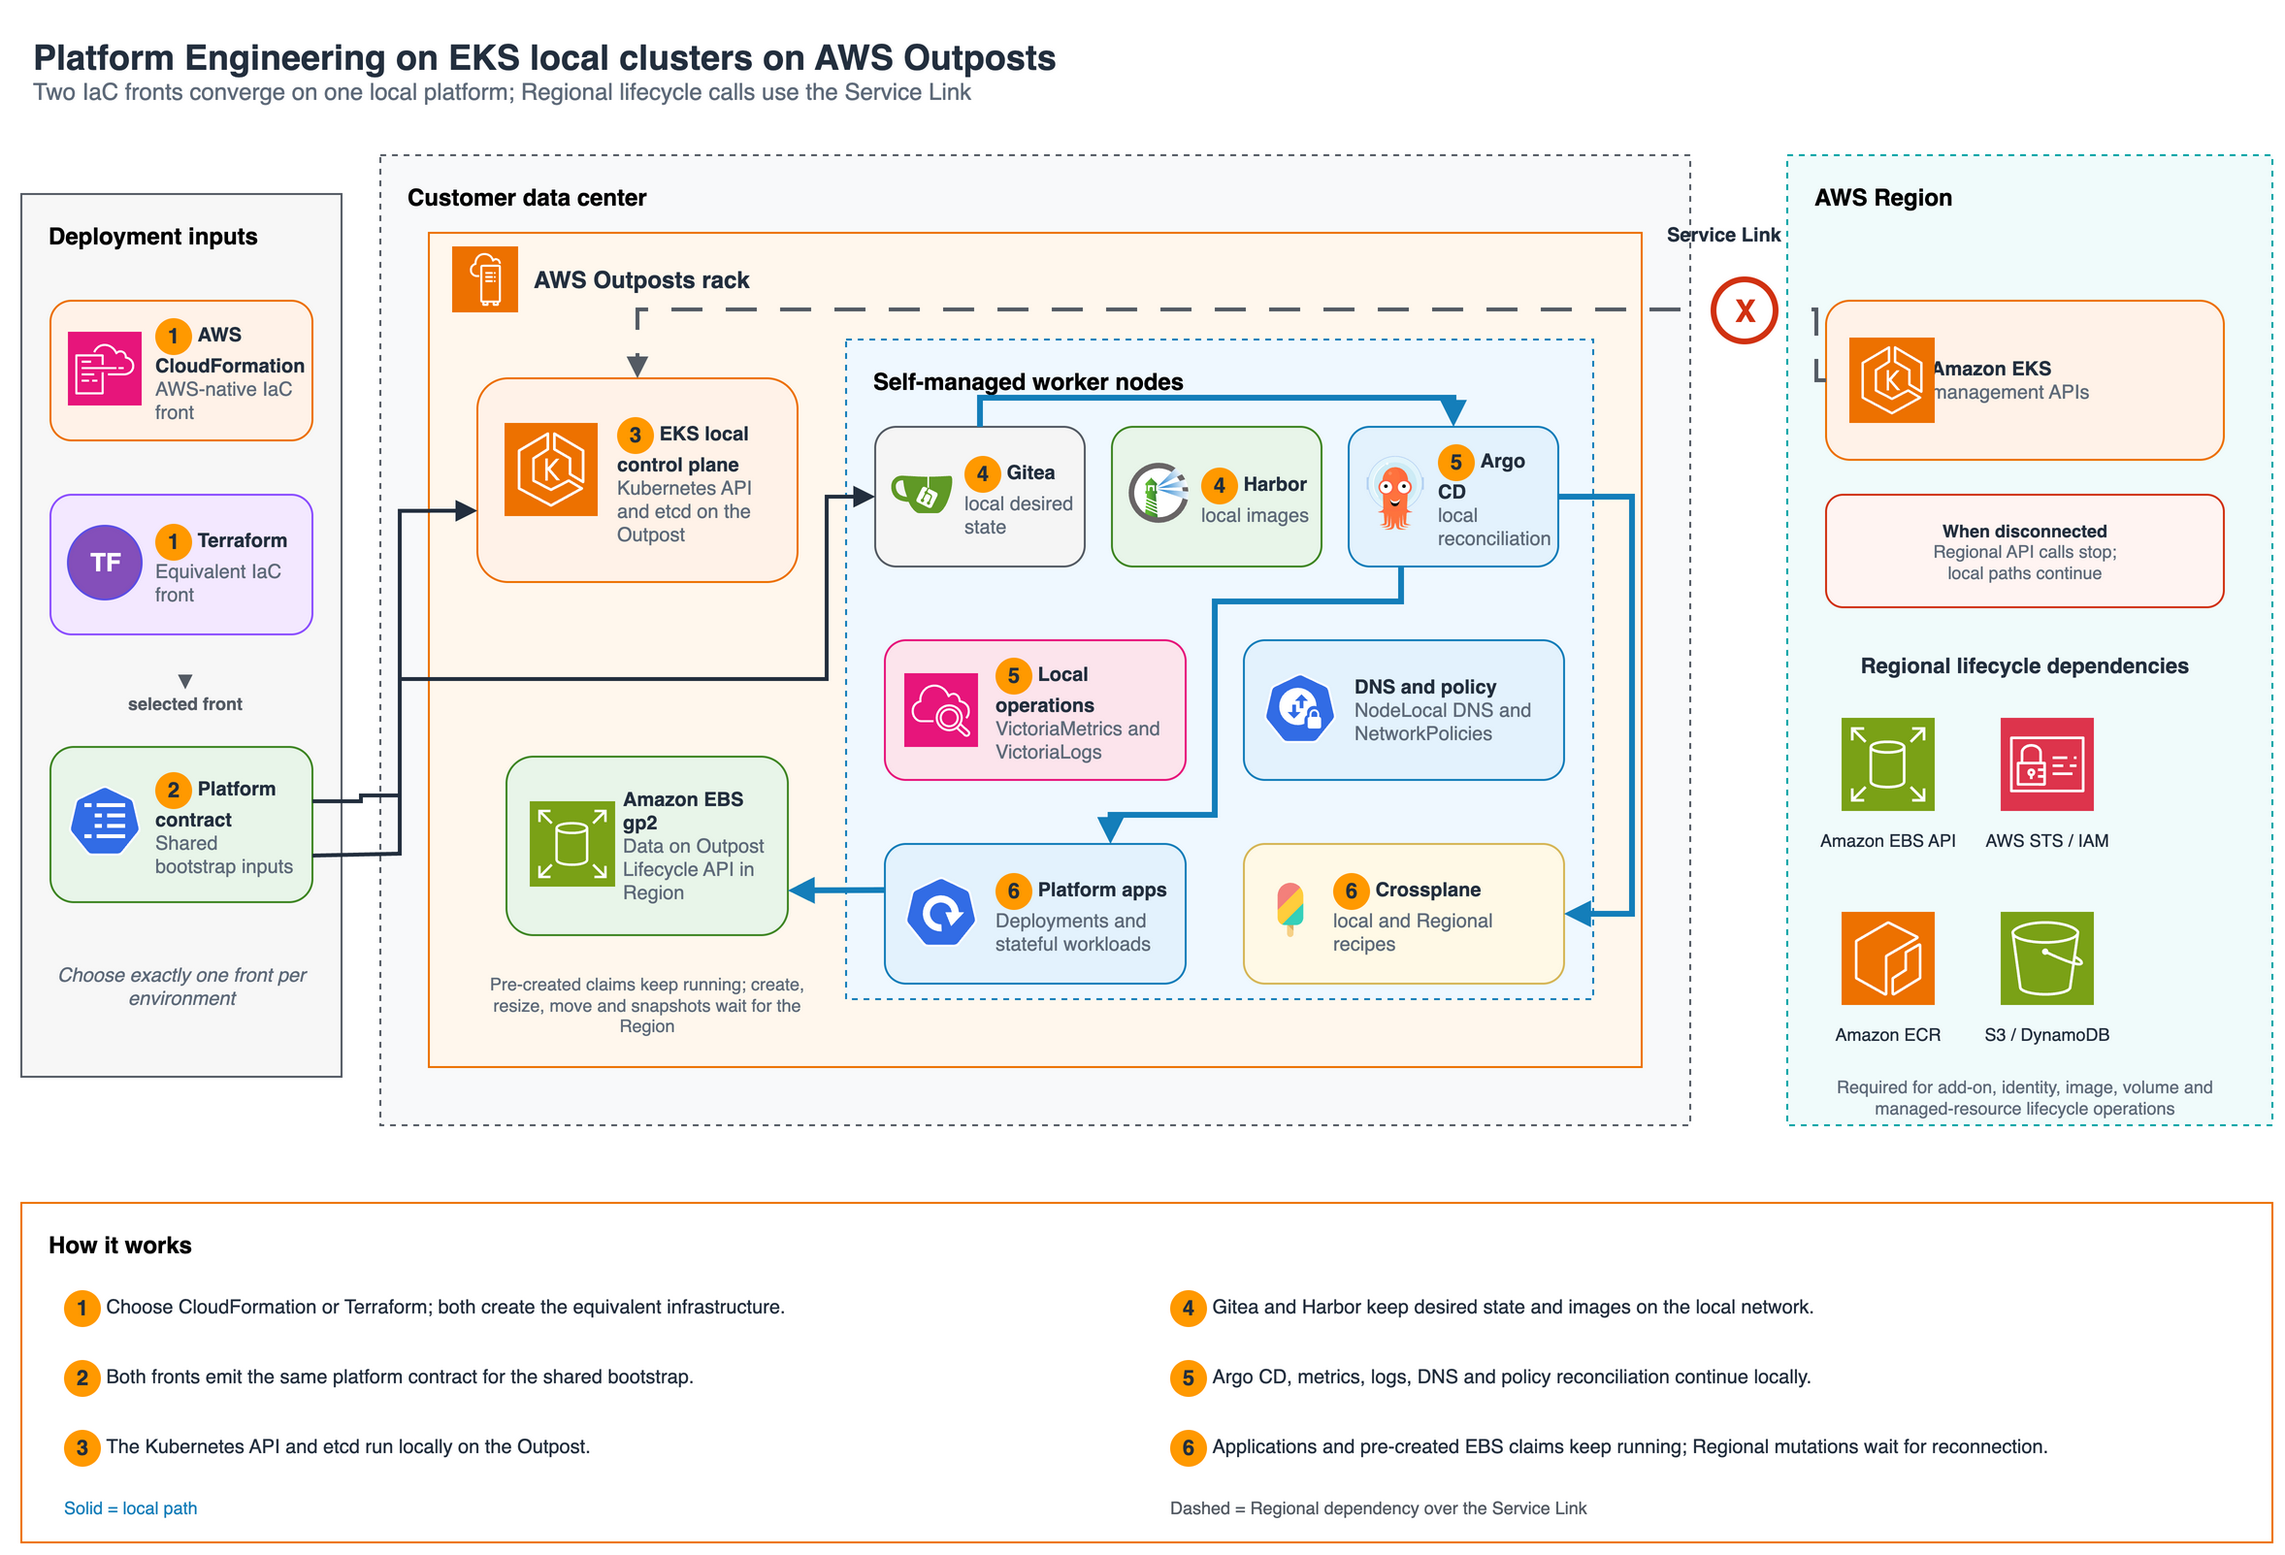
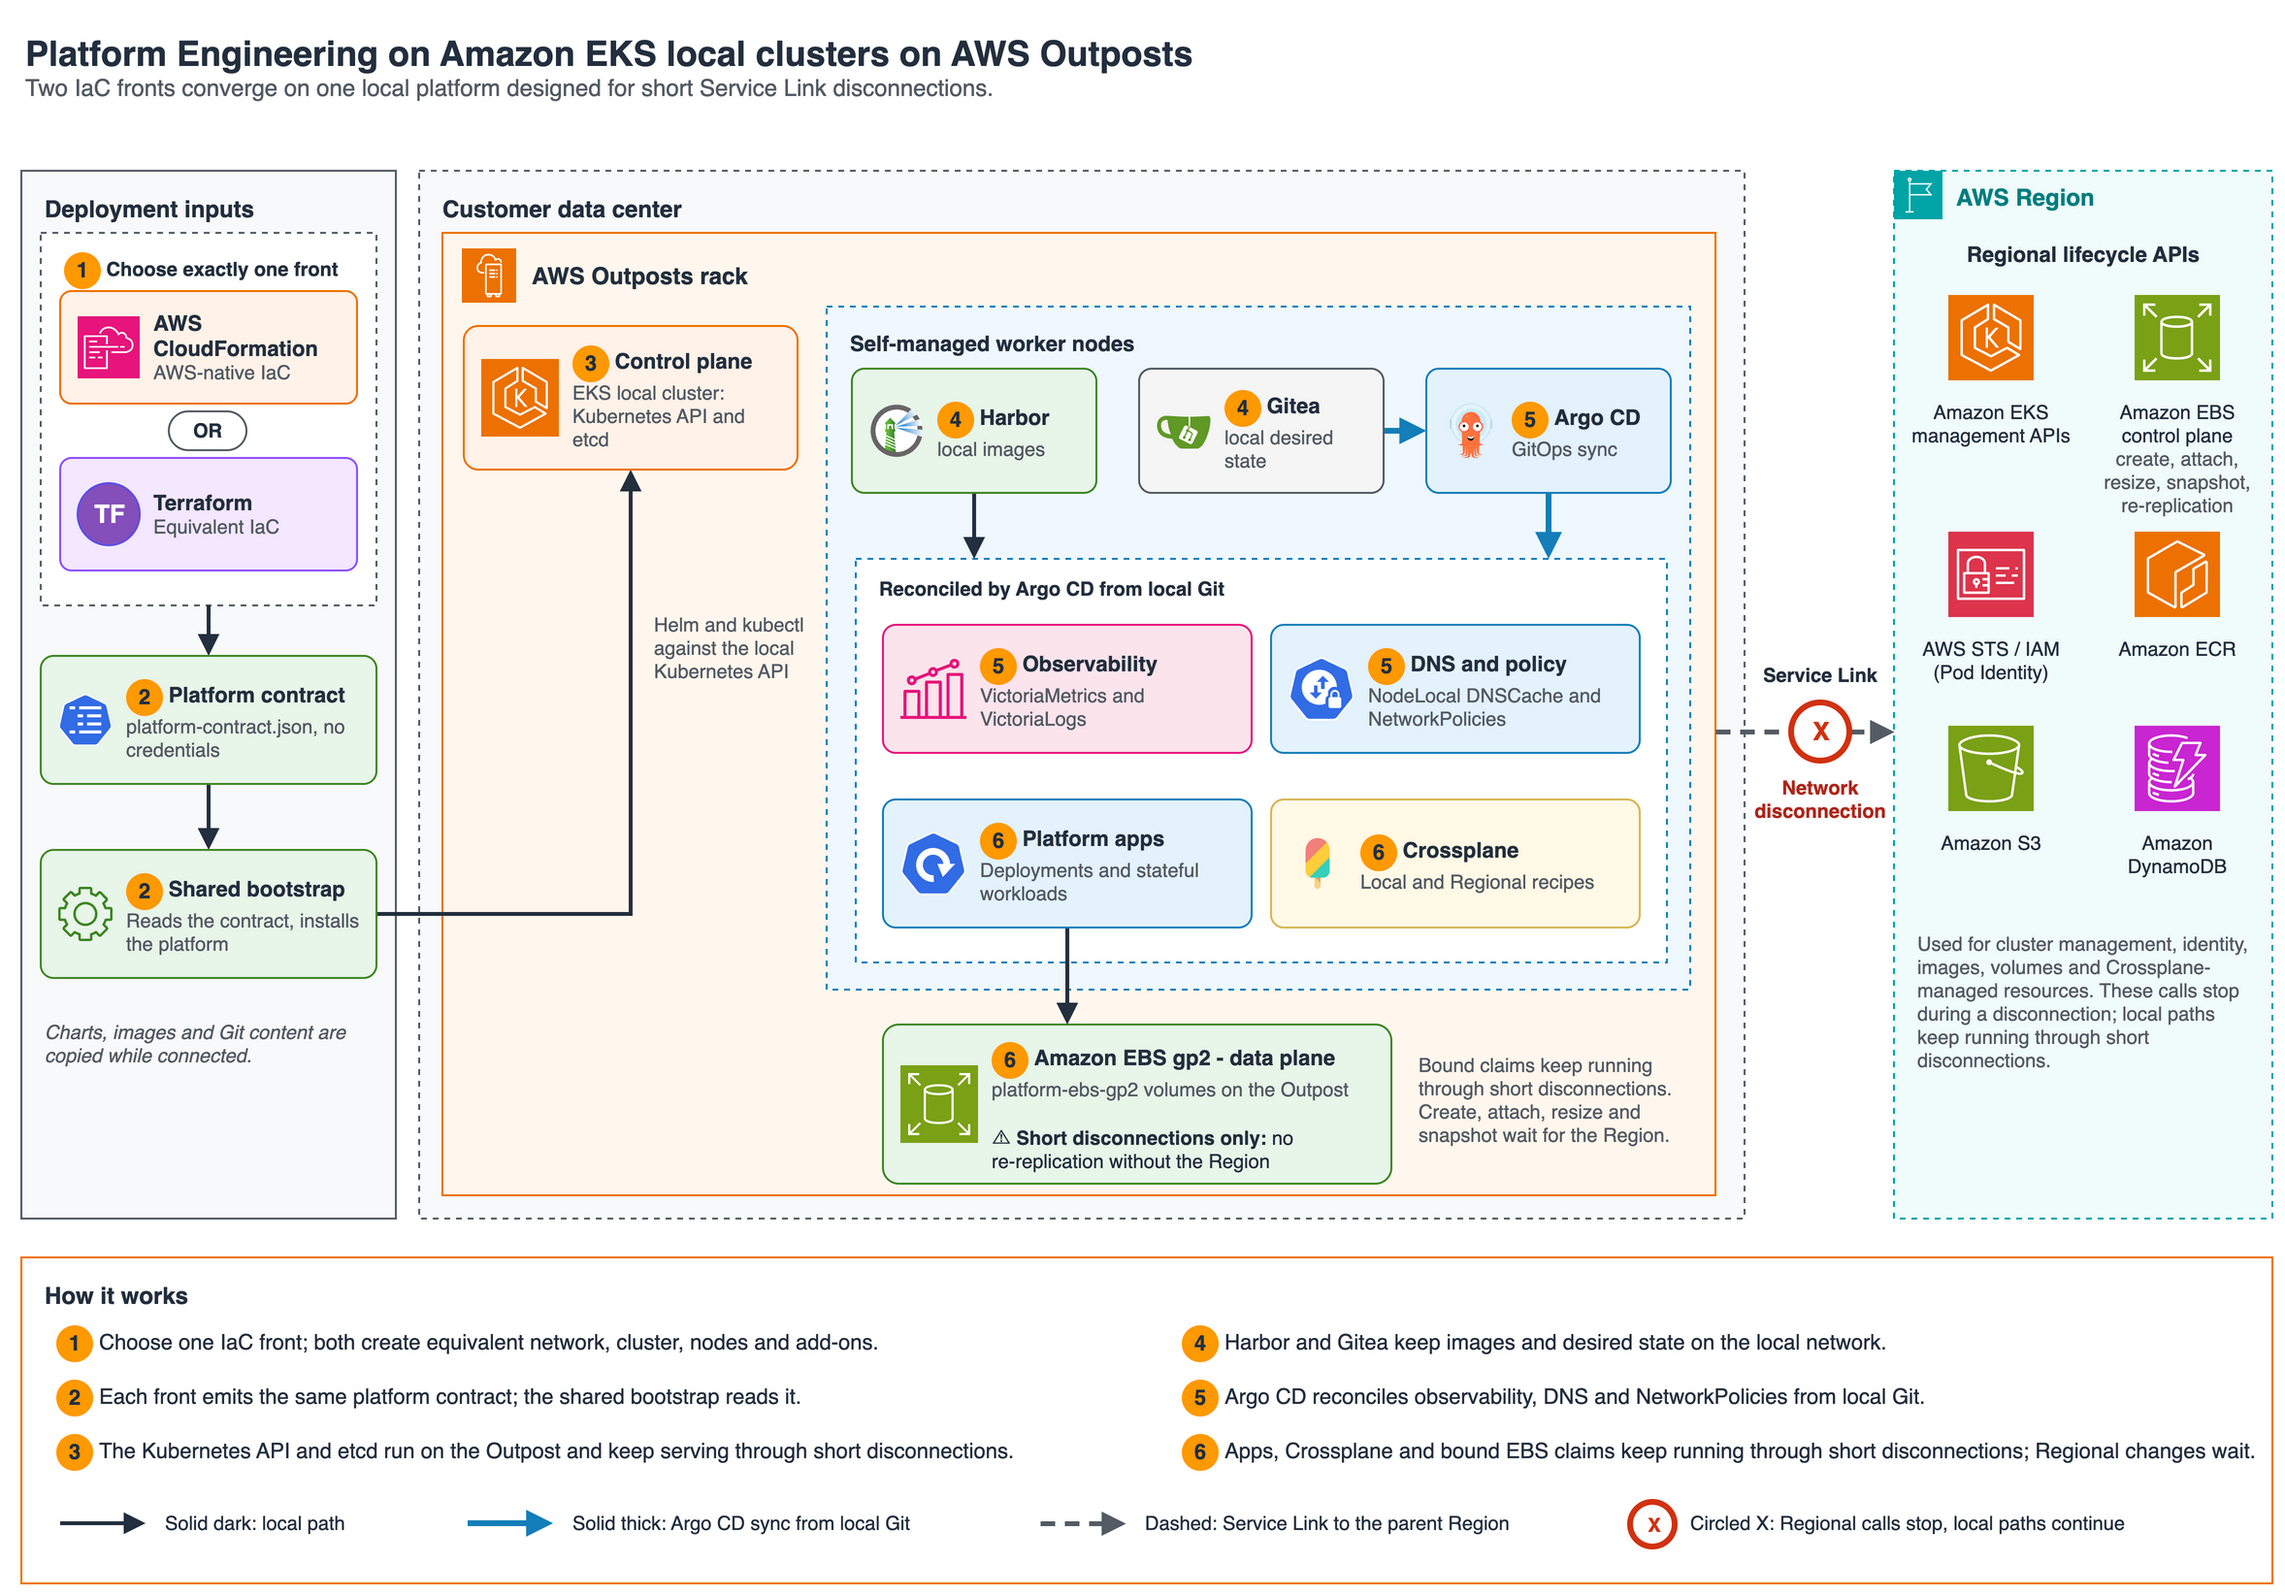
docs(eks-outposts): scope diagram to short disconnections and add storage-options figure

diff --git a/extensions/eks-outposts-platform-engineering/docs/architecture.md b/extensions/eks-outposts-platform-engineering/docs/architecture.md
@@ -4,9 +4,9 @@
 
 The Platform Engineering demo on Amazon EKS local clusters on AWS Outposts runs the Kubernetes API, etcd, self-managed workers, and the platform services on the Outpost. Platform data lives on Amazon EBS gp2 volumes on the Outpost. Regional APIs are required for provisioning and reconciliation of regional AWS resources. Local Git, registry, metrics, logs, DNS cache, and policy enforcement keep operating when the regional link is unavailable.
 
-![CloudFormation and Terraform are alternative infrastructure inputs to a shared platform contract. Inside a customer data center, an AWS Outposts rack runs the EKS local control plane, self-managed worker nodes, Gitea, Harbor, Argo CD, local observability, DNS and policy services, platform applications, Crossplane, and Amazon EBS gp2. A dashed Service Link reaches Regional lifecycle APIs and a labeled disconnection marker separates the local paths that continue from the Regional calls that stop.](images/eks-outposts-platform-engineering.png)
+![CloudFormation and Terraform are alternative infrastructure inputs to a shared platform contract. Inside a customer data center, an AWS Outposts rack runs the EKS local control plane, self-managed worker nodes, Gitea, Harbor, Argo CD, local observability, DNS and policy services, platform applications, Crossplane, and the Amazon EBS gp2 data plane, marked for short disconnections only because re-replication needs the Region. A dashed Service Link reaches Regional lifecycle APIs, including the Amazon EBS control plane, and a labeled disconnection marker separates the local paths that continue from the Regional calls that stop.](images/eks-outposts-platform-engineering.png)
 
-*Figure 1: Current architecture and the connected-versus-disconnected operating boundary. The editable source is [eks-outposts-platform-engineering.drawio](diagrams/eks-outposts-platform-engineering.drawio).*
+*Figure 1: Current architecture, designed for short Service Link disconnections, and the connected-versus-disconnected operating boundary. The editable source is [eks-outposts-platform-engineering.drawio](diagrams/eks-outposts-platform-engineering.drawio).*
 
 ## Two infrastructure fronts, one platform
 
@@ -34,6 +34,10 @@ The cluster control-plane backing store and the workload persistent-storage path
 - The implemented workload path is Amazon EBS. It is durable on the Outpost, but volume mutations and snapshots require Regional APIs.
 - A platform that must mutate stateful workloads during a prolonged disconnect needs a locally reachable alternative storage mechanism. The primary candidate is an enterprise array with a vendor-supported Kubernetes CSI driver. Replicated software-defined storage is an alternative with higher node, disk, network, and operational overhead.
 - The EC2 Local Instance Store CSI Driver is an ephemeral option, not a durable replacement for the platform claims. It remains outside the automatic deployment and has not been validated on an EKS local cluster.
+
+![Two columns compare Outpost storage configurations by disconnect duration. The left column, marked Implemented with a solid border, is the EBS-backed Outpost used by this extension for short disconnections: the Amazon EBS gp2 data plane and its volumes live on the Outpost, the EBS control plane lives in the AWS Region, bound claims keep running while disconnected, create, attach, resize, snapshot and re-replication wait for the Region, and risk grows with disconnect duration. The right column, marked Not implemented by this extension with a dashed border, is the instance-store Outpost without Amazon EBS for prolonged disconnections: the control plane and etcd run on EC2 instance store, the Local Instance Store CSI driver holds ephemeral data only, and durable workload data needs an on-premises NetApp ONTAP array with Trident CSI outside the rack, shown as a candidate that is not deployed.](images/eks-outposts-storage-options.png)
+
+*Figure 2: Choose the Outpost storage configuration by disconnect duration. This extension implements the EBS-backed configuration. The editable source is [eks-outposts-storage-options.drawio](diagrams/eks-outposts-storage-options.drawio).*
 
 The complete recommendation, prerequisites, validation status, and sources are in [Storage strategy](../platform/components/storage/README.md).
 

diff --git a/extensions/eks-outposts-platform-engineering/docs/diagrams/README.md b/extensions/eks-outposts-platform-engineering/docs/diagrams/README.md
@@ -1,14 +1,15 @@
 # Architecture diagrams
 
-The editable draw.io source and exported PNG are kept in the extension so the architecture can be corrected without rebuilding it from memory.
+The editable draw.io sources and exported PNGs are kept in the extension so the architecture can be corrected without rebuilding it from memory.
 
 ## Inventory
 
 | Source | Export | Purpose |
 |---|---|---|
-| `eks-outposts-platform-engineering.drawio` | `../images/eks-outposts-platform-engineering.png` | Shows the two equivalent IaC fronts, the EKS local cluster and platform on AWS Outposts, the Regional lifecycle dependencies, and the Service Link disconnection boundary |
+| `eks-outposts-platform-engineering.drawio` | `../images/eks-outposts-platform-engineering.png` | Shows the two equivalent IaC fronts, the EKS local cluster and platform on AWS Outposts, the Regional lifecycle dependencies, and the Service Link disconnection boundary, scoped to short disconnections |
+| `eks-outposts-storage-options.drawio` | `../images/eks-outposts-storage-options.png` | Compares the implemented EBS-backed Outpost for short disconnections with the instance-store Outpost for prolonged disconnections, which this extension does not implement |
 
-The figure uses the Blog Figure profile from the `aws-architecture-diagram` Power and mirrors the boundary orientation of the official [Amazon EKS local-cluster architecture](https://docs.aws.amazon.com/eks/latest/userguide/eks-outposts-local-cluster-overview.html).
+Both figures use the Blog Figure profile from the `aws-architecture-diagram` Power and mirror the boundary orientation of the official [Amazon EKS local-cluster architecture](https://docs.aws.amazon.com/eks/latest/userguide/eks-outposts-local-cluster-overview.html).
 
 ## Re-export
 
@@ -16,19 +17,24 @@ The figure uses the Blog Figure profile from the `aws-architecture-diagram` Powe
 /Applications/draw.io.app/Contents/MacOS/draw.io -x -f png -e -b 10 -s 2 \
   -o docs/images/eks-outposts-platform-engineering.png \
   docs/diagrams/eks-outposts-platform-engineering.drawio
+/Applications/draw.io.app/Contents/MacOS/draw.io -x -f png -e -b 10 -s 2 \
+  -o docs/images/eks-outposts-storage-options.png \
+  docs/diagrams/eks-outposts-storage-options.drawio
 ```
 
-The `-e` flag embeds the draw.io XML in the PNG. Keep the `.drawio` and PNG together.
+The `-e` flag embeds the draw.io XML in the PNG. Keep each `.drawio` and its PNG together.
 
 ## Acceptance gates
 
 ```bash
 POWER="$HOME/.kiro/powers/installed/aws-architecture-diagram"
-python3 "$POWER/scripts/validate-drawio.py" docs/diagrams/eks-outposts-platform-engineering.drawio
-python3 "$POWER/scripts/check-overlap.py" docs/diagrams/eks-outposts-platform-engineering.drawio
-python3 "$POWER/scripts/check-crossing.py" docs/diagrams/eks-outposts-platform-engineering.drawio
-python3 "$POWER/scripts/check-text-fit.py" docs/diagrams/eks-outposts-platform-engineering.drawio
-python3 "$POWER/scripts/check-figure-geometry.py" lint docs/diagrams/eks-outposts-platform-engineering.drawio
+for f in docs/diagrams/*.drawio; do
+  python3 "$POWER/scripts/validate-drawio.py" "$f"
+  python3 "$POWER/scripts/check-overlap.py" "$f"
+  python3 "$POWER/scripts/check-crossing.py" "$f"
+  python3 "$POWER/scripts/check-text-fit.py" "$f"
+  python3 "$POWER/scripts/check-figure-geometry.py" lint "$f"
+done
 ```
 
-All five commands must return zero findings. Inspect the exported PNG at the README rendering width before publishing.
+All five commands must return zero findings for each figure. Inspect each exported PNG at the README rendering width before publishing.

diff --git a/extensions/eks-outposts-platform-engineering/CHANGELOG.md b/extensions/eks-outposts-platform-engineering/CHANGELOG.md
@@ -2,6 +2,11 @@
 
 All notable changes to the Platform Engineering demo on Amazon EKS local clusters on AWS Outposts are documented here.
 
+## 2026-10-24
+
+- Scoped the architecture diagram to short Service Link disconnections: the Amazon EBS gp2 data plane on the Outpost now carries a short-disconnections-only marker, because re-replication needs the Amazon EBS control plane in the Region.
+- Added Figure 2, which compares the implemented EBS-backed Outpost for short disconnections with the instance-store Outpost for prolonged disconnections that this extension does not implement. Status uses words and glyphs, and the not-implemented column uses a dashed border. Both figures pass the five `aws-architecture-diagram` geometry gates.
+
 ## 2026-10-23
 
 - Added the editable AWS architecture diagram and embedded-source PNG to the extension landing page and architecture document. The Blog Figure mirrors the official EKS local-cluster boundary, adds the local platform and Regional lifecycle dependencies, and passes the five `aws-architecture-diagram` geometry gates.
